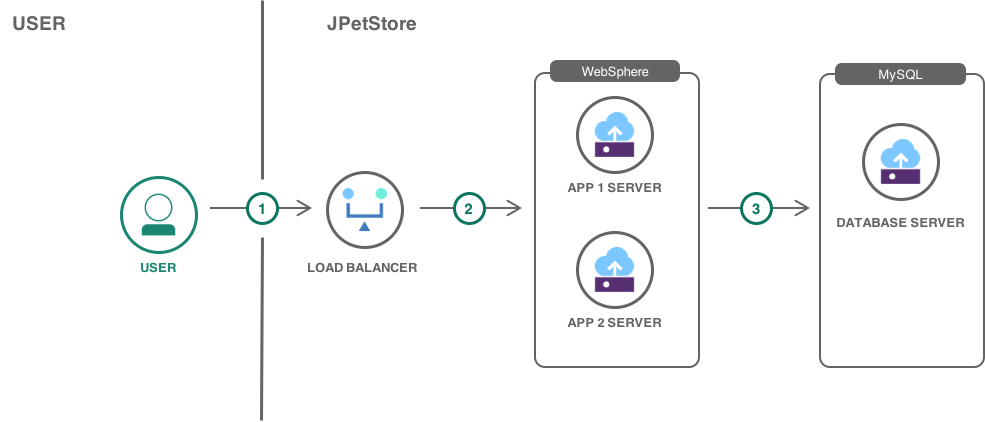
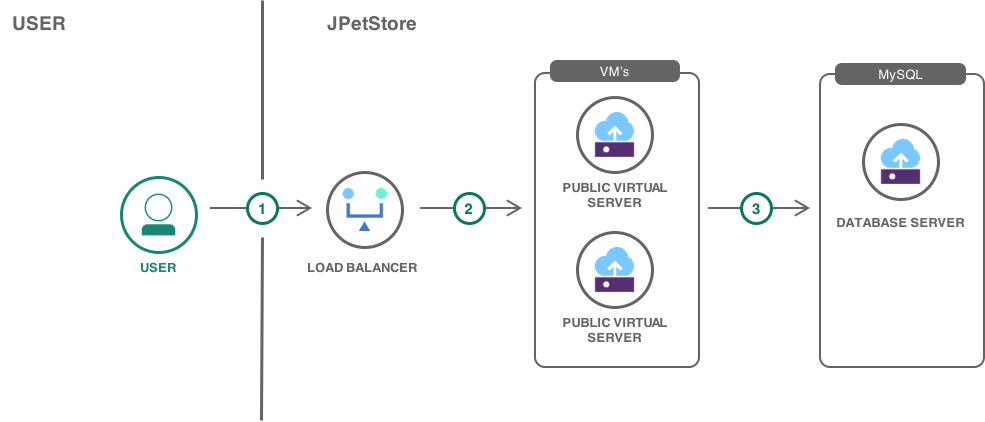
Pushing updated solution content

Changed region(s): [[0.5482, 0.7393, 0.6701, 0.8318], [0.5482, 0.4313, 0.6701, 0.4929], [0.5787, 0.154, 0.6701, 0.1848]]

diff --git a/infrastructure-to-kubernetes.md b/infrastructure-to-kubernetes.md
@@ -1,7 +1,7 @@
 ---
 copyright:
   years: 2017, 2018
-lastupdated: "2018-05-03"
+lastupdated: "2018-05-10"
 ---
 
 {:shortdesc: .shortdesc}
@@ -13,9 +13,9 @@ lastupdated: "2018-05-03"
 
 # Understand how to move a VM based application to Kubernetes
 
-This tutorial walks you through the process of moving a VM based application to a Kubernetes cluster on the IBM Cloud Container Service. You will learn how to take an existing Java application (JPetStore), containerize it, move it to Kubernetes, and then extend it using other IBM Cloud services. Though migrating existing applications to the containers and Kubernetes can be different from an application to application, this tutorial aims to outline the path with an example.
+This tutorial walks you through the process of moving a VM based application to a Kubernetes cluster on the IBM Cloud Container Service. You will learn how to take an existing Java application (JPetStore), containerize it, move it to Kubernetes, and then extend it using other IBM Cloud services. Though migrating existing applications to the containers and Kubernetes can be different from an application to application, this tutorial aims to outline the path with an example. 
 
-**TODO**: Why move to Kubernetes? Faster, cheaper, self-healing, scaling, compact...
+Kubernetes is a container orchestrator to provision, manage, and scale applications. Kubernetes allows you to manage the lifecycle of containerized applications in a cluster of nodes (which are a collection of worker machines, for example, VMs or physical machines). Kubernetes supports a wide spectrum of languages allowing you to develop locally, scale globally. Kubernetes packs all the fundamental components to build cloud native apps locally. With Kubernetes you get things like built-in scaling features, load balancing, auto-recovery, quick deployment rollout and more. 
 
 There are two options for moving applications to Kubernetes:
 - Identify single component of a large monolith application which can be separated into its own micro-service. Containerize and deploy micro-service to Kubernetes. Repeat.
@@ -82,22 +82,70 @@ With a Kubernetes architecture, this may end up looking more like this:
 - Kubernetes ingress controller manages the load balancing between worker nodes. This comes built in with Kubernetes and no additional service needed for this.
 - Compose For MySQL service to store the database. With Kubernetes you have the option to run the database on inside a cluster, but there is a more favorable option. This is by using the Database as a service option. For this tutorial example a database as service option been selected for two of reasons. One backup and two scaling. Many Databases as services options on IBM Cloud come with built-in backup snapshots and auto-scaling, so we don't need to worry about backups data and to scale the database. You can find many databases as service options on IBM Cloud [catalog](https://console.bluemix.net/catalog/?category=data).
 
-## Entering the world of containers and Kubernetes
+## The world of VM's, containers and Kubernetes
 
-As you enter the world of containers and Kubernetes, you will discover new resources and terminologies.
+### Virtual machines
 
-ToDo: Add somewhere content here **containers VS VM's** 
+Before containers were used, most infrastructure ran not on bare metal, but on hypervisors that managed multiple virtualized operating systems (OSs). This arrangement allowed isolation of applications from one another on a higher level than that provided by the OS. These virtualized operating systems recognize what looks like their own exclusive hardware. However, this also means that each of these virtual operating systems are replicating an entire OS, which requires more disk space.
 
-A Kubernetes cluster manages a collection of worker nodes, and a worker nodes is just a collection of VM's or physical machines. Inside that worker nodes you would then have a pod that has the Docker container image of your application. You as a developer will focus on your application and not so much worker nodes. Kubernetes Deployments handles the creation of the pods and inserting the docker images inside the pod for you, but not only that, Kubernetes Deployments do more than just that for you.
+IBM Cloud provides the capability to run applications in containers on Kubernetes. The IBM Cloud Container Service runs Kubernetes clusters that deliver the following tools and functions:
 
-- The Deployment instructs Kubernetes how to create and update instances of your application pods. This provides a self-healing mechanism to address machine failure or maintenance. In the VM based application world, installation scripts would often be used to start the applications, but sometimes recovery from machine failures not even counted and handled. Now, Kubernetes in the other hand offers a much better solution to this because of the way Kubernetes works. This is by having a Deployment to create your application instances and keeping them running across Nodes, it makes sure that your pods are running at all times and if one pod failed then it will create another one. Kubernetes does that with the ReplicationController.
-- A *ReplicationController* ensures that a specified number of pod replicas are running at any one time. In other words, a ReplicationController makes sure that a pod or a homogeneous set of pods is always up and available. so this means If there are too many pods, the ReplicationController terminates the extra pods. If there are too few, the ReplicationController starts more pods.
+- Intuitive user experience and powerful tools
+- Built-in security and isolation to enable rapid delivery of secure applications
+- Cloud services that include cognitive capabilities from IBM® Watson™
+- Ability to manage dedicated cluster resources for both stateless applications and stateful workloads
+
+### Containers
+
+Containers provide isolation similar to virtual machines (VMs), except provided by the OS and at the process level. Each container is a process or group of processes that are run in isolation. Typical containers explicitly run only a single process because they have no need for the standard system services. What they usually need to do can be provided by system calls to the base OS kernel.
+
+The isolation on Linux is provided by a feature called namespaces. Each different kind of isolation, that is, user and cgroups, is provided by a different namespace.
+
+### Virtual machines VS containers 
+
+Traditional applications are run on native hardware. A single application does not typically use the full resources of a single machine. Most organizations try to run multiple applications on a single machine to avoid wasting resources. You could run multiple copies of the same application, but to provide isolation, you can use VMs to run multiple application instances (VMs) on the same hardware. These VMs have full operating system stacks that make them relatively large and inefficient due to duplication both at runtime and on disk.
+
+However, containers allow you to share the host OS. This reduces duplication while still providing the isolation. Containers also allow you to drop unneeded files such as system libraries and binaries to save space and reduce your attack surface. If SSHD or LIBC are not installed, they cannot be exploited.
+
+### Kubernetes orchestration
+
+Now that you know what containers are, let’s define what Kubernetes is. Kubernetes is a container orchestrator to provision, manage, and scale applications. In other words, Kubernetes allows you to manage the lifecycle of containerized applications in a cluster of nodes (which are a collection of worker machines, for example, VMs or physical machines). Your applications might need many other resources to run such as Volumes, Networks, and Secrets that will help you to do things such as connect to databases, talk to firewalled backends, and secure keys. Kubernetes helps you add these resources to your application. Infrastructure resources needed by applications are managed declaratively.
+
+The key paradigm of Kubernetes is its declarative model. The user provides the desired state and Kubernetes will do it's best to make it happen. If you need five instances, you do not start five separate instances on your own but rather tell Kubernetes that you need five instances, and Kubernetes will reconcile the state automatically. At this point, you simply need to know that you declare the state that you want and Kubernetes makes that happen. If something goes wrong with one of your instances and it crashes, Kubernetes still knows the desired state and creates new instances on an available node.
+
+The main entry point for the Kubernetes project is at [http://kubernetes.io](http://kubernetes.io/), and the source code can be found at [https://github.com/kubernetes](https://github.com/kubernetes).
+
+### Kubernetes resource model
+
+Kubernetes infrastructure defines a resource for every purpose. Each resource is monitored and processed by a Controller. When you define your application, it contains a collection of these resources. This collection will then be read by Controllers to build your applications actual backing instances. Some of the resources that you might work with described in the following list. For a complete list, go to [https://kubernetes.io/docs/concepts](https://kubernetes.io/docs/concepts). In this tutorial, you will learn some of these resources, such as pod and deployment.
+
+### Key resources and pods
+
+A pod is the smallest object model that you can create and run. You can add labels to a pod to identify a subset to run operations on. When you are ready to scale your application, you can use the label to tell Kubernetes which Pod you need to scale. A pod typically represents a process in your cluster. Pods contain at least one container that runs the job and additionally might have other containers in it called sidecars for monitoring, logging, and so on. Essentially, a pod is a group of containers. An application is a group of pods. Although an entire application can be run in a single pod, you usually build multiple pods that talk to each other to make a useful application. Services define how to expose your application as a DNS entry to have a stable reference. Kubernetes provides a client interface through the kubectl command-line interface. Kubectl commands allow you to manage your applications, and manage cluster and cluster resources by modifying the model in the data store.
+
+### Kubernetes application deployment workflow
+
+The following diagram shows how applications are deployed in a Kubernetes environment.
+
+<p style="text-align: center;">
+![Architecture diagram](/Applications/MAMP/htdocs/_GitHub/tutorials/images/solution30/app_deploy_workflow.png)
+</p>
+
+1. Deploy a new application by using the kubectl CLI. Kubectl sends the request to the API server.
+2. The API server receives the request and stores it in the data store (etcd). After the request is written to the data store, the API server is done with the request.
+3. Watchers detect the resource changes and send notifications to the Controller to act on those changes.
+4. The Controller detects the new application and creates new pods to match the desired number of instances. Any changes to the stored model will be used to create or delete pods.
+5. The Scheduler assigns new pods to a node based on specific criteria. The Scheduler decides on whether to run pods on specific nodes in the cluster. The Scheduler modifies the model with the node information.
+6. A Kubelet on a node detects a pod with an assignment to itself and deploys the requested containers through the container runtime, for example, Docker. Each node watches the storage to see what pods it is assigned to run. The node takes necessary actions on the resources assigned to it such as to create or delete pods.
+7. Kubeproxy manages network traffic for the pods, including service discovery and load balancing. Kubeproxy is responsible for communication between pods that want to interact.
+
+Now that you know virtual machines VS containers and the fundamental of Kubernetes, next let's explore how to plan the move to Kubernetes.
 
 ## How to plan the move
 
 {: #plan_the_move}
 
-In this section, we will cover the fundamentals of moving VM based applications to Kubernetes. You will learn how to create a development/production cluster with the appropriate amount of resources need. You will learn what code to modifications needed to deploy it on a Kubernetes cluster.
+In this section, you will learn what to consider when configuring a cluster, how to containerize the application and how to create Kubernetes deployment files. 
 
 ###Configure Resources
 
@@ -111,33 +159,155 @@ To run a production application in the Cloud using Kubernetes, there are few ite
 Above are some of the questions, you need to think about before configuring your clusters. Assuming you want to run the PetStore application in the Cloud for a production use, and expect a high load of traffic. Let's explore what resources you would need:
 
 1. Setup three clusters, one for development, one testing and one for production.
-2. Development and testing cluster can start with minimum RAM and CPU option like 2 CPUs and 4GB of RAM should be ok. And one worker node for each.
-3. For the production server, you may want more resources for resiliency. For the production server, you can select any of the three hardware options shared, dedicated or bare metal. CPU and RAM you should have at least 4 CPUs and 16GB of RAM, and 4 workers nodes. 
+2. Development and testing cluster can start with minimum RAM and CPU option like 2 CPU's, 4GB of RAM and one worker node for each cluster.
+3. For the production server, you may want to have more resources for resiliency. With the production server, you can select any of the three hardware options shared, dedicated or bare metal. For the CPU and RAM you should have at least 4 CPU's, 16GB of RAM, and four workers nodes. 
 
-### Containerize the application
+### Containerize the application 
 
-**Create docker container images**
+To containerize your application, you need to create a file called Dockerfile inside the root of the application. A Dockerfile is a text document that contains all the commands you can execute to assemble an image.
 
-ToDo: What is a docker container file consist off, how to create one based on an existing application, how ingress works and how to configure it.
+To build one based on your existing application, you may need to define the following: 
 
-Point to the docker file. 
+- FROM - to define an official runtime as parent image.
+- ADD/COPY - to copy the current directory contents into the container
+- WORKDIR - Set the working directory
+- RUN - to Install any needed packages
+- EXPOSE - Make port available to the world outside this container
+- ENV NAME - Define the environment variable
+- CMD - Run application when the container launches
+
+For more information on creating a Dockerfile, checkout the docker [file reference](https://docs.docker.com/engine/reference/builder/#usage).
+
+To containerize the JPetStore application, below [Dockerfile](https://github.ibm.com/ibmcloud/ModernizeDemo/blob/master/jpetstore/Dockerfile) been used.
+
+```bash
+# Build JPetStore war
+FROM openjdk:8 as builder
+COPY . /src
+WORKDIR /src
+RUN ./build.sh all
+
+# Use WebSphere Liberty base image from the Docker Store
+FROM websphere-liberty:latest
+
+# Copy war from build stage and server.xml into image
+COPY --from=builder /src/dist/jpetstore.war /opt/ibm/wlp/usr/servers/defaultServer/apps/
+COPY --from=builder /src/server.xml /opt/ibm/wlp/usr/servers/defaultServer/
+RUN mkdir -p /config/lib/global
+COPY lib/mysql-connector-java-3.0.17-ga-bin.jar /config/lib/global
+```
+
+Once a Dockerfile created, next you would need to build and push the docker images. The docker images for each of the microservices need to be built and the images need to be pushed to a container registry. These steps are for pushing to your IBM Cloud private registry, but you can also push them to a public registry.
+
+1. Identify your registry namespace with `bx cr namespaces` or create a new one using `bx cr namespace-add <NAMESPACE>`
+
+2. Build and push the **jpetstoreweb** image:
+
+   ```bash
+   $ docker build . -t registry.ng.bluemix.net/<NAMESPACE>/jpetstoreweb
+   $ docker push registry.ng.bluemix.net/<NAMESPACE>/jpetstoreweb
+   ```
 
 ### Modify your code
 
-1) Cover 12 factor methodologies
+There are few items in which you must handle when moving to Kubernetes:
 
-2) Save Credentials outside the app - https://12factor.net/config
-The Twelve-Factor App
-A methodology for building modern, scalable, maintainable software-as-a-service apps.
+- Service credentials, how to handle sensitive service, databases credentials within the cluster.
+- High availability storage, how to handle data storage, where to store data in your cluster. 
 
-3) https://12factor.net/backing-services
-12factor.net
-The Twelve-Factor App
-A methodology for building modern, scalable, maintainable software-as-a-service apps.
+**Service Credentials**
 
-4) Don't write to disk - use volume or database, or object storage
+In Kubernetes, it's not a good practice to store credentials within the application but instead you should use what's called **[secrets](https://kubernetes.io/docs/tasks/inject-data-application/distribute-credentials-secure/)**. An objects of type `secret` are intended to hold sensitive information, such as passwords, OAuth tokens, and ssh keys. Putting this information in a `secret` is safer and more flexible than putting it verbatim in a `pod` definition or in a docker image. An application can have many different credentials like database credentials, 3rd party service credentials and more. These credentials should be distributed securely outside the application. 
 
-managing storage, PersistentVolumes, PersistentVolumeClaim. How all that works. (How to copy existing files over).
+Let's explore how to create a secret if you to add a Watson visual recognition service.
+
+1. Create a new file called `watson-secrets.txt` and add the service credentials, you can get service credentials from the IBM Cloud dashboard or using the CLI.
+
+   ```bash
+   {
+       "url": "https://gateway-a.watsonplatform.net/visual-recognition/api",
+       "api_key": ""
+   }
+   ```
+
+2. Create a secret from the file by running:
+
+   ```bash
+   $ kubectl create secret generic watson-visual-secret --from-file=watson-secrets.txt=./watson-secrets.txt
+   ```
+
+3. To verify secret been created, run the command: 
+
+   ```bash
+   $ kubectl get secrets
+   ```
+
+   The secret created can now be referenced from the Kubernetes deployment file. You will later learn about the Kubernetes deployment files and how the secret been referenced in the Kubernetes deployment file.  
+
+**Saving data in your cluster**
+
+In IBM Cloud Container Service, you can choose from several options to store your app data and share data across pods in your cluster. However, not all storage options offer the same level of persistence and availability in situations where a component in your cluster or a whole site fails.
+
+**Non-persistent data storage options**
+
+Containers and pods are, by design, short-lived and can fail unexpectedly. However, you can write data to the local file system of the container to store data throughout the lifecycle of the container. Data inside a container cannot be shared with other containers or pods and is lost when the container crashes or is removed. 
+
+**Persistent data storage options for high availability**
+
+Create a persistent volume claim (PVC) to provision NFS file storage or block storage for your cluster. Then, mount this claim to a persistent volume (PV) to ensure that data is available even if the pods crash or shut down.
+
+The NFS file storage and block storage that backs the PV is clustered by IBM in order to provide high availability for your data. The storage classes describe the types of storage offerings available and define aspects such as the data retention policy, size in gigabytes, and IOPS when you create your PV.
+
+In Kubernetes, the way this can is by using `PersistentVolume` to store the data in a [NFS-based file storage](https://www.ibm.com/cloud/file-storage/details) or [block storage](https://www.ibm.com/cloud/block-storage) and then use `PersistentVolumeClaim` to make that storage available to your pods. 
+
+To create a PV and matching PVC, follow these steps below: 
+
+1. Review the available storage classes. See full list of storage classes [here](https://console.bluemix.net/docs/containers/cs_storage.html#create) with storage capacity breakdown.
+
+   ```bash
+   $ kubectl get storageclasses
+   ```
+
+2. Create a `retain-silver ` storage class. The **retain** options means that the storage will not be removed altering deleting the PVC.
+
+   ```bash
+   $ kubectl describe storageclasses ibmc-file-retain-silver 
+   ```
+
+3. Create a new file and name it mypvc.yaml file with the following.
+
+   ```bash
+   apiVersion: v1
+   kind: PersistentVolumeClaim
+   metadata:
+     name: mypvc
+     annotations:
+       volume.beta.kubernetes.io/storage-class: "ibmc-file-silver"
+     labels:
+       billingType: "monthly"
+   spec:
+     accessModes:
+       - ReadWriteMany
+     resources:
+       requests:
+         storage: 24Gi
+   ```
+
+4. Create the PVC.
+
+   ```bash
+   $ kubectl apply -f mypvc.yaml
+   ```
+
+5. Verify that your PVC is created and bound to the PV. This process can take a few minutes.
+
+   ```bash
+   $ kubectl describe pvc mypvc
+   ```
+
+**Move existing data over**
+
+ToDo: 
 
 
 
@@ -149,13 +319,11 @@ Point to the deployment file.
 
 ToDo… 
 
-
-
 Now that you understand the fundamentals of moving application to Kubernetes, next you will explore creating a cluster and run the PetStore application in a Kubernetes cluster.
 
 ## Run the application  
 
-{: #run_application}
+{: #run_application} 
 
 ToDo...
 
@@ -188,4 +356,8 @@ ToDo...
 ## Related Content
 {: #related_content}
 
-ToDo...
+- [Get started with Kubernetes and IBM Cloud Container Service](https://developer.ibm.com/courses/all/get-started-kubernetes-ibm-cloud-container-service/)
+- [http://kubernetes.io/](http://kubernetes.io/)
+
+
+
